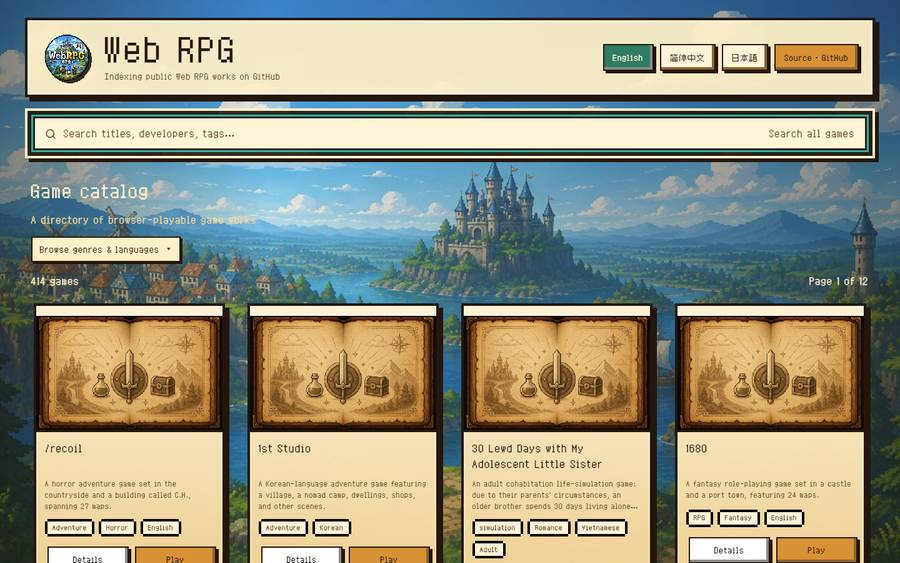
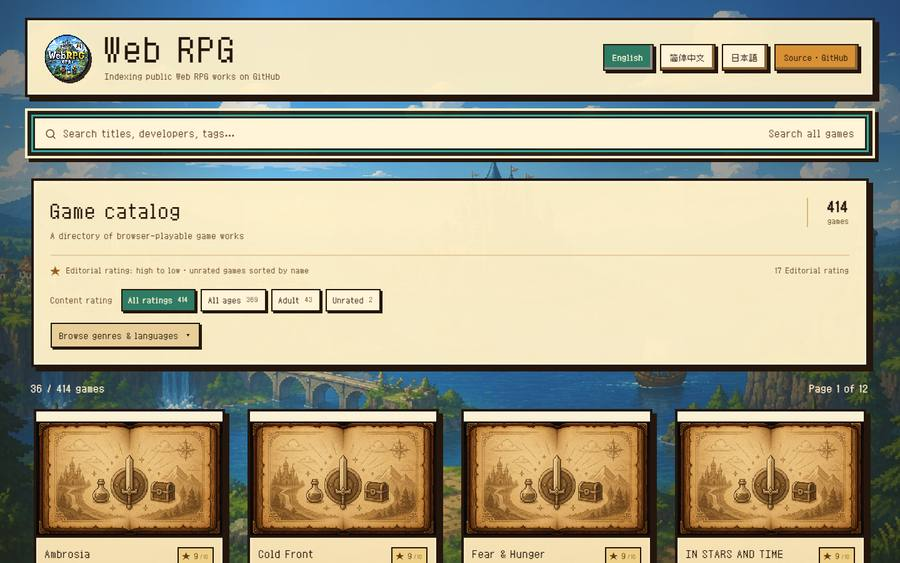
docs(ui): record rating sort, NSFW facet SEO and desktop/mobile design acceptance

diff --git a/README.md b/README.md
@@ -6,7 +6,8 @@ WebRPG organizes **games (works)**, not GitHub repositories. Each work has a loc
 
 - Astro 7 SSG renders full static HTML: three homes, Game details, tags/themes, actual playable languages, 36-games/page pagination, canonical/hreflang, OG, structured data, sitemap and robots.
 - React 19 hydrates only the search/combined filters and optional browser-language suggestion. Static game cards are rendered via existing Pixelact React UI on the server without client hydration.
-- Original Zpix font, site background, images, warm Pixelact UI and CSS are preserved.
+- Original Zpix font, site background, images, warm Pixelact UI and CSS are preserved. Directory heading, rating legend and content-rating filters are grouped in a header-style pixel card, with refined responsive game details and aligned action buttons.
+- Stable default order: numeric source `games.json` rating (editorial score out of 10) descending for scored works, then localized work name for unscored and tied works. Unscored works are not assigned synthetic ratings; no review aggregator or popularity scoring is generated. The current snapshot rates 17 of 414 works.
 - Data source: WebRPG-org/index, one exact Git Commit SHA for both games.json and list.json, loaded **at build time**, validated and joined by explicit per-Game schemaVersion adapter. Browser never downloads the full upstream JSON. Search uses smaller separate content-hashed locale JSON indexes.
 - Indexability is determined by explicit `seo.indexPolicy=noindex` and technically valid, available game instance URLs. Historical draft editorial statuses, description length/absence and adult/unrated classification do not prevent publication. Factual metadata is used when an introduction is missing; missing NSFW remains `unknown`. No popularity or invented user ratings are consumed.
 
@@ -57,6 +58,7 @@ Build report: `dist/build-manifest.json` with frontend and source commits, upstr
 - Pages after page 1: `/<locale>/page/2/`; no duplicate `/page/1/`.
 - Works: `/<locale>/game/<gameSlug>/`.
 - Tags and playable languages: `/<locale>/tags/<tag>/` and `/<locale>/languages/<lang>/`. Category pagination uses an additional `page/<N>/` segment.
+- Optional content rating filter: `/<locale>/nsfw/safe/`, `/<locale>/nsfw/adult/`, `/<locale>/nsfw/unknown/`, with static `page/<N>/` pagination. These are browseable but deliberately `noindex` and excluded from Sitemap to prevent duplicate taxonomy search results. Adult and unknown works remain present on the unfiltered homepage.
 - Existing independent GitHub Project Pages such as `https://webrpg.org/<forkName>/...` are **not moved, redirected or changed**. Original deep `pagesUrl` entries are preserved. Reserved-path collisions fail the build.
 
 CI never deploys from pull requests. The GitHub Pages workflow responds to main pushes, manual dispatch, and index-update dispatch. To cover the index repository's missing dispatch sender, it also performs a read-only scheduled Index check every six hours after this workflow reaches the default branch. Unchanged Index/front-end SHAs skip builds; changed SHAs trigger full validation, and only a changed normalized catalog, route set, or frontend commit authorizes publication. Manual dispatch supports pinned frontend_ref and index_ref for rollback. See `docs/acceptance/deployment.md` and `docs/acceptance/f11-index-update.md`. Actual scheduled GitHub runner behavior, game assets/saves and Search Console canonical behavior still require live acceptance.

diff --git a/docs/acceptance/ui-rating-detail-followup.md b/docs/acceptance/ui-rating-detail-followup.md
@@ -1,0 +1,32 @@
+# WebRPG visual follow-up — rating sort and work detail, 2026-11-21
+
+## Scope
+
+This follows the initial Astro SSG migration and second independent review, reusing the same feature worktree. Based on live desktop and mobile screenshots supplied by the user, without introducing a different theme or changing original game runtime paths.
+
+## Data semantics
+
+- The existing numeric games.json rating field (0–10) is kept as optional GameView.editorialRating. In the pinned Index snapshot 17/414 works have a valid rating. Missing or invalid values remain null. No synthetic/user aggregate or popularity rating is generated in Schema.org.
+- Server-side directory, category and static pagination sort by editorial rating descending; ties and 397 unscored works sort by localized title then slug. The search projection continues to exclude ratings, popularity and source assessment notes.
+- All three locales display an explicit "editorial rating" legend. Game cards show a numerical ★ X/10 only when the game has a source rating; work details likewise show the score or an explicit "not rated".
+
+## Content rating filter
+
+- A full static SSR (no-JavaScript) filter for safe/adult/unknown. Counts in current Index snapshot: 369, 43, 2; full directory remains 414 works including NSFW.
+- Paths: /<locale>/nsfw/<safe|adult|unknown>/, plus /page/N/ only for valid N >= 2; static cards are paginated by 36. Direct game content-rating chips link to the corresponding facet.
+- Facet pages use explicit noindex and are excluded from sitemap and indexed hreflang to avoid competing with canonical work listings. Existing game detail pages, site language prefixes, page/1 exclusivity and child-game runtime paths are unchanged.
+- nsfw is added to the reserved root namespace to detect future Project Pages collisions.
+
+## Layout and interaction
+
+- A cream-and-pixel-border card wraps the main catalog heading, description, true work count, rating order, content-rating filters and the preexisting expandable genres/languages navigation, visually aligned with existing Header.
+- Mobile content rating uses one accessible horizontally scrollable line, with first game card remaining within the initial 390px viewport.
+- Work cards display scores when present. Both action buttons use equal columns and consistent shadow/alignment.
+- Details: balanced cover/metadata grid, original title, distinct metadata definition list including source attribution and languages, clear version count and primary play action, responsive version cards, prose sections and deduplicated bottom source links. Source next to Play was removed. No extra game URL was changed.
+
+## Acceptance
+
+- npx astro check, ESLint and node unit tests pass, including source rating ordering and missing/out-of-range rating fixtures.
+- npm run ci passes with complete statically generated HTML, canonical/hreflang/sitemap/JSON-LD, static links, per-locale NSFW facets noindex and filtering checks.
+- Real Edge browser acceptance checks rating cards, NSFW filter pagination, precise action alignment, details source removal, 320/390px overflow and no-JS navigation. Keep run logs under ignored .cache.
+- This is local feature-branch work only. The next independent audit, live deployment, GitHub Linux CI, gameplay/saves and Search Console observations remain outside the present task.
